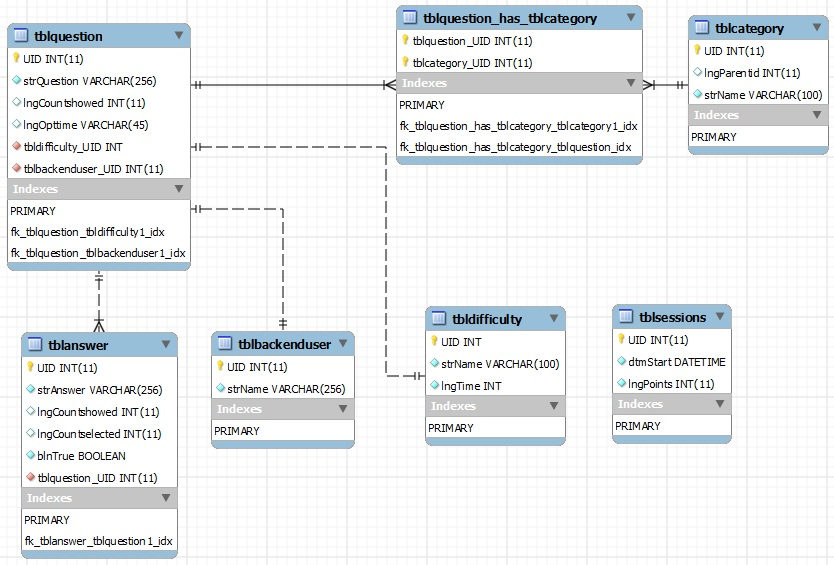
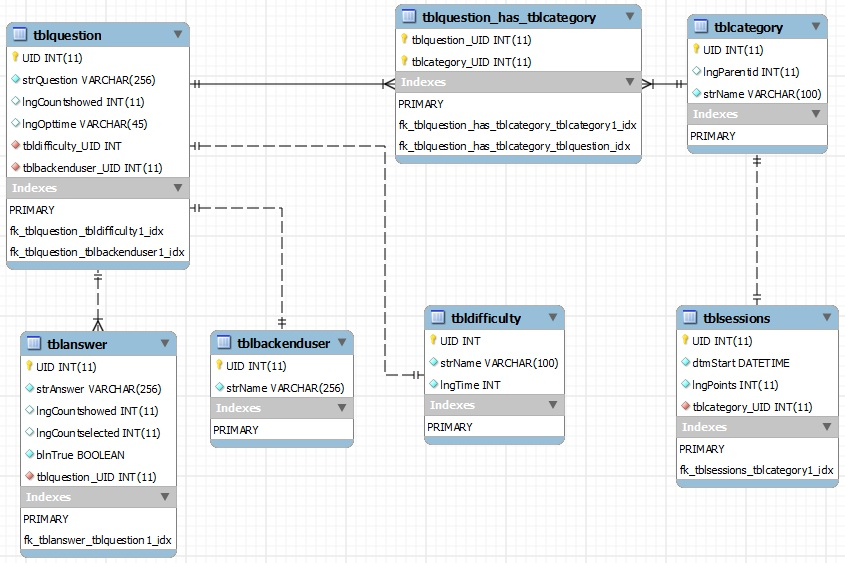
- Session/Statistiken added

Changed region(s): [[0.0, 0.0, 0.9976, 0.9964], [0.717, 0.5133, 0.9976, 0.8757], [0.4676, 0.5435, 0.6859, 0.7851]]

diff --git a/src/Template/Statistiken/GET/Bearbeiten.html b/src/Template/Statistiken/GET/Bearbeiten.html
@@ -1,0 +1,26 @@
+
+<h1>Statistiken reseten</h1>
+
+        <form method="post">
+            <input type="hidden" name="UID" value="#VAR:UID#" />
+
+            <table style="float: left;">
+                <tr>
+                    <th><label for="dtmStart" class="#VAR:ERROR_dtmStart#">Startdatum</label></th>
+                    <td><input type="text" id="strName" name="dtmStart" value="#VAR:dtmStart#" class="text ui-widget-content ui-corner-all" /></td>
+                </tr>
+                <tr>
+                    <th><label for="lngPoints" class="#VAR:ERROR_lngTime#">Punktzahl</label></th>
+                    <td>
+                        <input id="lngPoints" name="lngPoints" value="#VAR:lngPoints#" class="text ui-widget-content ui-corner-all" />
+                    </td>
+                </tr>
+                <tr>
+                    <td colspan="2">
+                        <input type="submit" value="Reseten" />
+                    </td>
+                </tr>
+            </table>
+            <br clear="all" />&nbsp;<br />
+        </form>
+</body>

diff --git a/src/Template/Statistiken/GET/Global.html b/src/Template/Statistiken/GET/Global.html
@@ -1,0 +1,27 @@
+
+        <h1>Liste der Statistiken</h1>
+
+        #IF:is_array($this->_objResponse->arrSessions)#
+        <table class="ui-widget ui-widget-content">
+            <thead>
+                <tr class="ui-widget-header">
+                    <th>#ID</th>
+                    <th>Startdatum</th>
+                    <th>Punktzahl</th>
+                </tr>
+            </thead>
+            <tbody id="lisGame">
+                #FOREACH:arrSessions#
+                <tr>
+                    <td>#VAR:UID#</td>
+                    <td>#VAR:dtmStart#</td>
+                    <td>#VAR:lngPoints#</td>
+                </tr>
+                #/FOREACH#
+            </tbody>
+        </table>
+        #/IF#
+
+        #IF:!is_array($this->_objResponse->arrSessions)#
+        <h3>Keine Statistiken vorhanden!</h3>
+        #/IF#

diff --git a/src/Template/Statistiken/GET/Liste.html b/src/Template/Statistiken/GET/Liste.html
@@ -1,0 +1,27 @@
+
+        <h1>Liste der Statistiken</h1>
+
+        #IF:is_array($this->_objResponse->arrSessions)#
+        <table class="ui-widget ui-widget-content">
+            <thead>
+                <tr class="ui-widget-header">
+                    <th>#ID</th>
+                    <th>Startdatum</th>
+                    <th>Punktzahl</th>
+                </tr>
+            </thead>
+            <tbody id="lisGame">
+                #FOREACH:arrSessions#
+                <tr>
+                    <td>#VAR:UID#</td>
+                    <td>#VAR:dtmStart#</td>
+                    <td>#VAR:lngPoints#</td>
+                </tr>
+                #/FOREACH#
+            </tbody>
+        </table>
+        #/IF#
+
+        #IF:!is_array($this->_objResponse->arrSessions)#
+        <h3>Keine Statistiken vorhanden!</h3>
+        #/IF#

diff --git a/src/Command/Statistiken.php b/src/Command/Statistiken.php
@@ -1,0 +1,45 @@
+<?php
+class Command_Statistiken extends Core_Base_Command implements IHttpRequest
+{
+    public function getMain() {
+        $this->getListe();
+    }
+
+    public function getListe() {
+        $this->_objResponse->tplContent = 'Statistiken_GET_Liste';
+
+        $this->_objResponse->arrSessions = viewSession::getAllsessions(false);
+    }
+
+    public function getDetails() {
+        $this->_objResponse->tplContent = 'Statistiken_GET_Details';
+
+        $objSession = viewSession::getBypk($this->_objRequest->UID);
+
+        $this->_fillTemplate($objSession);
+    }
+
+    public function getBearbeiten() {
+        $this->_objResponse->tplContent = 'Statistiken_GET_Bearbeiten';
+
+        $objSession = viewSession::getBypk($this->_objRequest->UID);
+
+        $this->_fillTemplate($objSession);
+    }
+
+    private function _fillTemplate(App_Data_Session $objSession) {
+        $this->_objResponse->UID        = $objSession->getUID();
+        $this->_objResponse->dtmStart    = $objSession->getdtmStart();
+        $this->_objResponse->lngPoints  = $objSession->getlngPoints();
+    }
+
+    protected function _doInit() {
+
+    }
+
+    protected function _doValidate() {
+        $arrErrors = array();
+
+        return $arrErrors;
+    }
+}

diff --git a/src/App/Data/View/viewSession.php b/src/App/Data/View/viewSession.php
@@ -1,0 +1,34 @@
+<?php
+class viewSession extends App_Data_View_Base
+{
+    const VIEW_NAME    = 'tblsessions';
+    const VIEW_PK      = 'UID';
+    const VIEW_ARCLASS = 'Sessions';
+
+    public static function getAllsessions($blnObjects = true) {
+        $strARClass = 'App_Data_' . self::VIEW_ARCLASS;
+        $strQuery   = '
+SELECT
+    *
+FROM
+    ' . self::VIEW_NAME;
+
+        try {
+            $arrData        = App_Factory_Resource::getResource()->read($strQuery, true);
+
+            if($blnObjects) {
+                $arrResponse    = array();
+
+                foreach($arrData as $arrRow) {
+                    $arrResponse[] = new $strARClass($arrRow);
+                }
+
+                return $arrResponse;
+            } else {
+                return $arrData;
+            }
+        } catch (Resource_Exception $e) {
+            return NULL;
+        }
+    }
+}

diff --git a/src/Command/Schwierigkeiten.php b/src/Command/Schwierigkeiten.php
@@ -14,7 +14,7 @@ class Command_Schwierigkeiten extends Core_Base_Command implements IHttpRequest
     public function getDetails() {
         $this->_objResponse->tplContent = 'Schwierigkeiten_GET_Details';
 
-        $objCDifficulty = viewDifficulty::getBypk($this->_objRequest->UID);
+        $objDifficulty = viewDifficulty::getBypk($this->_objRequest->UID);
 
         $this->_fillTemplate($objDifficulty);
     }

diff --git a/src/App/Data/Session.php b/src/App/Data/Session.php
@@ -1,0 +1,13 @@
+<?php
+class App_Data_Session extends App_Data_Base
+{
+    const   VIEW_CLASS = 'viewSession';
+    const   VIEW_PK    = 'UID';
+
+    protected function _getEmpryarray() {
+        return array(
+            'dtmStart'               => '1900-01-01 00:00:00',
+            'lngPoints'               => 0
+        );
+    }
+}
